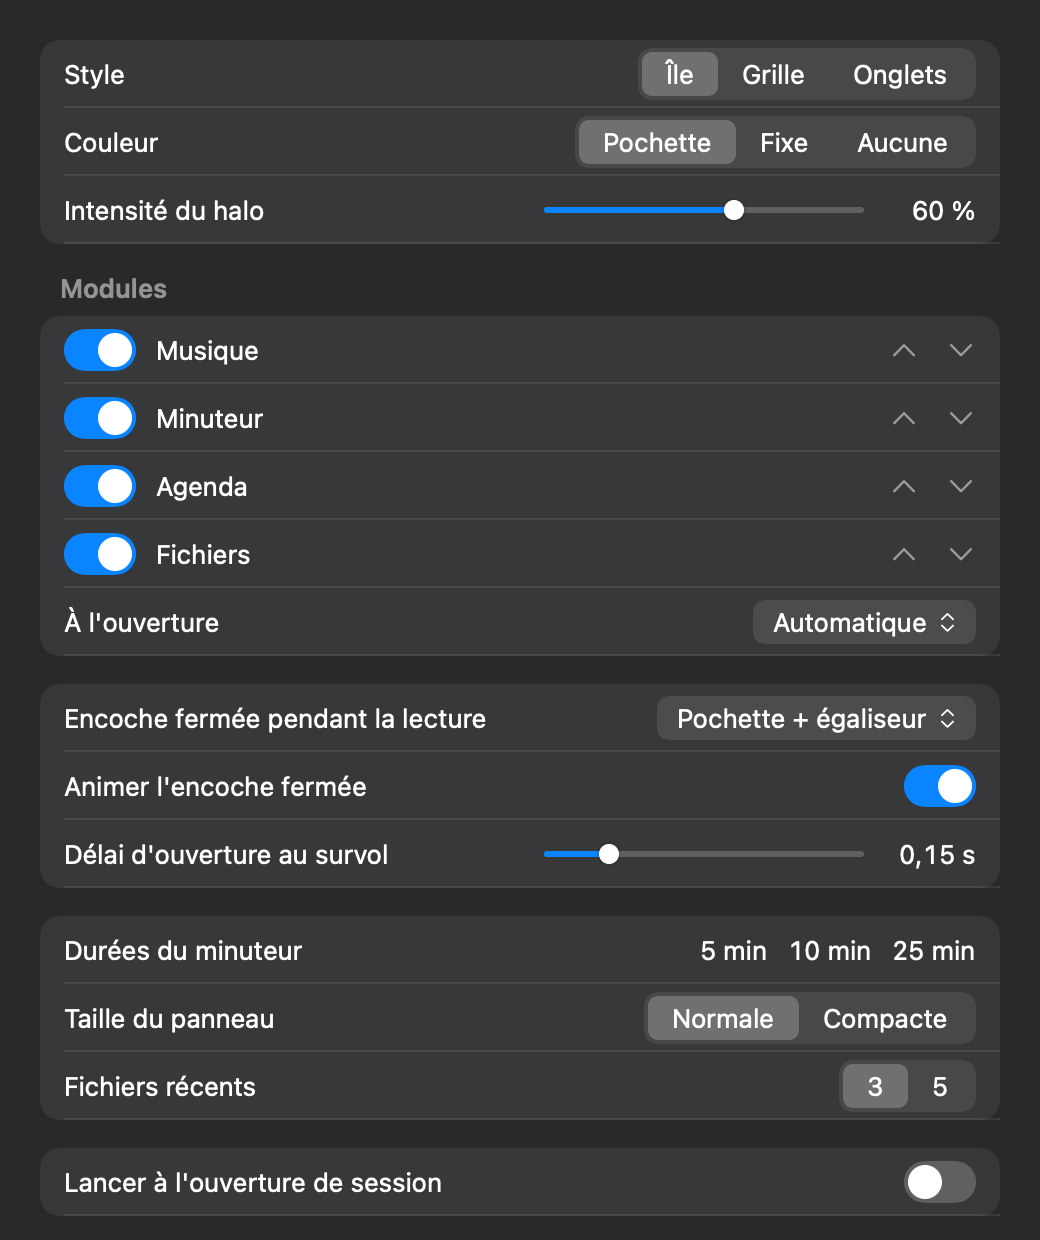
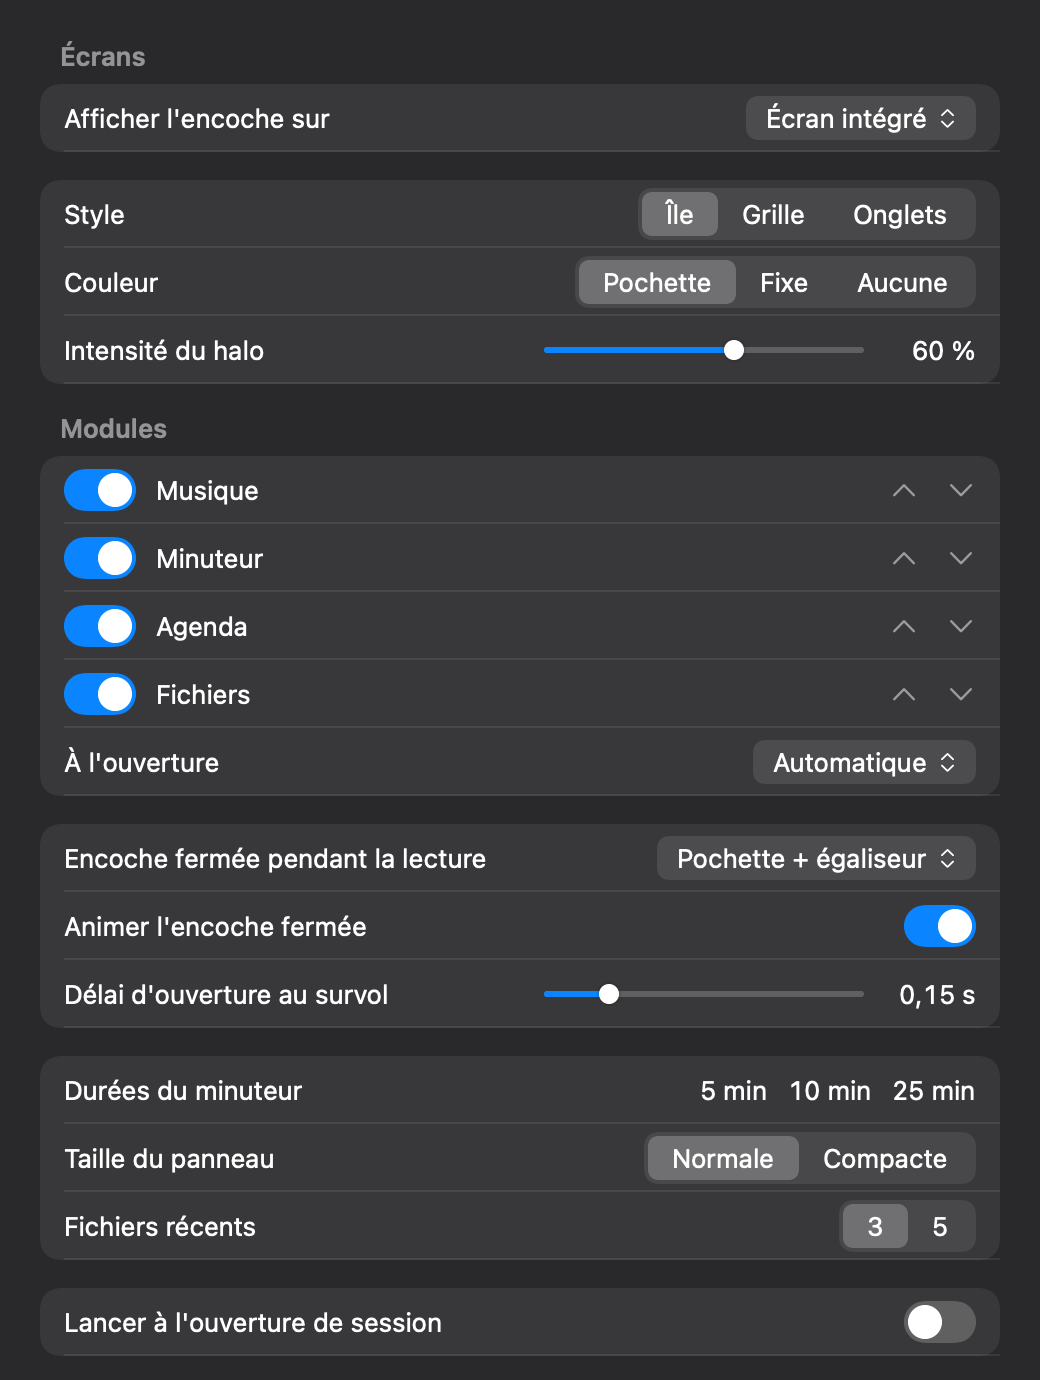
docs: 0.4.0 external screens, changelog, version bump

diff --git a/Sources/IleDelbe/App/ReadmeAssets.swift b/Sources/IleDelbe/App/ReadmeAssets.swift
@@ -40,6 +40,9 @@ enum ReadmeAssets {
                 try write(Scene(mode: mode, canvas: size, sample: s), size: size, to: url)
                 print("wrote \(url.path)")
             }
+            let external = directory.appendingPathComponent("external-screen.png")
+            try write(ExternalScreenScene(sample: s), size: ExternalScreenScene.size, to: external)
+            print("wrote \(external.path)")
             let settings = directory.appendingPathComponent("settings.png")
             try write(SettingsSnapshot(), size: SettingsSnapshot.size, to: settings)
             print("wrote \(settings.path)")
@@ -354,6 +357,62 @@ private struct Scene: View {
     }
 }
 
+// MARK: - External screen
+
+/// Wide external-screen menu bar with the virtual notch, in two stacked states: the thin idle bar,
+/// then the media pill. Shapes come from `ClosedDrawing` on a `NotchGeometry.virtual`, like the app.
+@MainActor
+private struct ExternalScreenScene: View {
+    static let size = CGSize(width: 900, height: 120)
+    static let menuBarHeight: CGFloat = 24
+    let sample: Sample
+
+    var body: some View {
+        VStack(spacing: 0) {
+            strip(wings: .none, layout: .plain)
+            strip(wings: PanelRules.closedWings(.media, closedStyle: .artworkEqualizer), layout: .media)
+        }
+        .frame(width: Self.size.width, height: Self.size.height)
+        .background(LinearGradient(colors: [Color(red: 0.07, green: 0.08, blue: 0.2),
+                                            Color(red: 0.42, green: 0.2, blue: 0.32)],
+                                   startPoint: .top, endPoint: .bottom))
+    }
+
+    private func strip(wings: ClosedWings, layout: ClosedLayout) -> some View {
+        let frame = CGRect(x: 0, y: 0, width: Self.size.width, height: Self.size.height / 2)
+        let g = NotchGeometry.virtual(screenFrame: frame, menuBarHeight: Self.menuBarHeight)
+        let d = ClosedDrawing(geometry: g, wings: wings)
+        let shape = NotchShape(bottomRadius: d.radius)
+        return ZStack(alignment: .top) {
+            HStack(spacing: 16) {
+                Text("Éditeur").fontWeight(.bold)
+                Text("Fichier")
+                Spacer()
+                Image(systemName: "wifi")
+                Text("lun. 09:48")
+            }
+            .font(.system(size: 12))
+            .foregroundStyle(.white.opacity(0.92))
+            .padding(.horizontal, 16)
+            .frame(height: Self.menuBarHeight)
+            .frame(maxWidth: .infinity)
+            .background(Color.black.opacity(0.28))
+            shape.fill(Color.black)
+                .overlay(alignment: .top) {
+                    if layout != .plain {
+                        ClosedActivityView(layout: layout, wings: wings, artworkData: sample.info.artworkData,
+                                           isPlaying: true, timer: sample.timer, now: sample.now, glow: sample.glow)
+                            .frame(height: g.notch.height)
+                    }
+                }
+                .frame(width: d.size.width, height: d.size.height)
+                .clipShape(shape)
+                .offset(x: d.offsetX)
+        }
+        .frame(width: Self.size.width, height: Self.size.height / 2, alignment: .top)
+    }
+}
+
 // MARK: - Settings window
 
 /// Static look-alike of `SettingsView` with the default settings. `ImageRenderer` cannot draw the
@@ -361,12 +420,16 @@ private struct Scene: View {
 /// the same rows with the same French labels, in the dark grouped style.
 @MainActor
 private struct SettingsSnapshot: View {
-    static let size = CGSize(width: 520, height: 620)
+    static let size = CGSize(width: 520, height: 690)
     private let s = AppSettings.default
     private let blue = Color(red: 0.04, green: 0.52, blue: 1)
 
     var body: some View {
         VStack(spacing: 14) {
+            header("Écrans")
+            group {
+                row("Afficher l'encoche sur") { menu("Écran intégré") }
+            }
             group {
                 segmented("Style", ["Île", "Grille", "Onglets"], selected: s.style == .island ? 0 : 1)
                 segmented("Couleur", ["Pochette", "Fixe", "Aucune"], selected: 0)

diff --git a/Tests/IleDelbeCoreTests/SmokeTests.swift b/Tests/IleDelbeCoreTests/SmokeTests.swift
@@ -1,4 +1,4 @@
 import Testing
 @testable import IleDelbeCore
 
-@Test func coreLinks() { #expect(IleDelbeCore.version == "0.3.0") }
+@Test func coreLinks() { #expect(IleDelbeCore.version == "0.4.0") }

diff --git a/Sources/IleDelbeCore/IleDelbeCore.swift b/Sources/IleDelbeCore/IleDelbeCore.swift
@@ -1,1 +1,1 @@
-public enum IleDelbeCore { public static let version = "0.3.0" }
+public enum IleDelbeCore { public static let version = "0.4.0" }

diff --git a/packaging/homebrew/iledelbe.rb b/packaging/homebrew/iledelbe.rb
@@ -1,5 +1,5 @@
 cask "iledelbe" do
-  version "0.3.0"
+  version "0.4.0"
   sha256 "REPLACE_WITH_SHA256_FROM_RELEASE_SH"
 
   url "https://github.com/jean-baptisteAZAN/ileDelbe/releases/download/v#{version}/ileDelbe-#{version}.zip"

diff --git a/Readme.md b/Readme.md
@@ -74,8 +74,7 @@ Update with `brew upgrade --cask iledelbe`. Uninstall with `brew uninstall --cas
 
 ### Requirements
 
-- A MacBook with a notch (Apple silicon), running **macOS 15.4 or later**.
-- External screens and Macs without a notch are not supported.
+- A Mac (Apple silicon) running **macOS 15.4 or later**. A notched MacBook gets the real notch; any other screen gets a virtual one (see [External screens](#external-screens)).
 
 ## First launch and permissions
 
@@ -106,8 +105,22 @@ Open **Réglages ileDelbe** with the gear in the open panel, or right-click insi
 - **Modules.** Show or hide *Musique*, *Minuteur*, *Agenda* and *Fichiers*, reorder them, and choose which one opens first (**À l'ouverture**, *Automatique* by default).
 - **Encoche fermée.** What the notch shows while music plays: *Pochette + égaliseur*, *Titre* or *Rien*. **Animer l'encoche fermée** turns the equalizer and the scrolling title on or off; with **Reduce Motion** enabled in System Settings > Accessibility > Display, they stay still whatever this option says. **Délai d'ouverture au survol** sets how long you hover before the panel opens.
 - **Minuteur.** The three preset durations (1 to 180 min).
+- **Écrans.** Where the notch appears: *Écran intégré*, *Écran principal*, *Un écran au choix* or *Tous les écrans*.
 - **Panneau.** *Normale* or *Compacte* size, and 3 or 5 recent files.
 - **Lancer à l'ouverture de session.** Starts ileDelbe at login.
+
+## External screens
+
+ileDelbe also works on external screens and on Macs without a notch. There, it draws a virtual notch at the top center of the menu bar, using the menu bar height of that screen. Pick where it appears in the **Écrans** section of the settings, with **Afficher l'encoche sur**:
+
+- **Écran intégré** (default). The built-in screen only. With the lid closed, or no built-in screen, the notch moves to the main screen.
+- **Écran principal**. The screen that has the menu bar.
+- **Un écran au choix**. A screen you pick from the list. While it is unplugged, the notch falls back to another screen.
+- **Tous les écrans**. A notch on every screen. Alerts (timer end, meeting) show on all of them; only one panel is open at a time.
+
+<img src="docs/assets/external-screen.png" alt="Virtual notch on an external screen: a thin idle bar, then the media pill with artwork and equalizer" width="100%">
+
+At rest, a virtual notch is only a thin bar, so it stays out of the way. It grows into a pill when something happens (music, timer, alert), and opens into the panel when you hover it. Only the drawn shape reacts to the pointer, and ileDelbe never takes focus.
 
 ## Build from source
 
@@ -155,7 +168,7 @@ log stream --predicate 'subsystem == "io.github.ileDelbe"'
 macOS ties permissions to the app's signature. After an update, or after each `make app` for a local build, the old grant can go stale. Open System Settings > Privacy & Security > Calendars, remove ileDelbe, then open the Agenda tab again to get a new prompt.
 
 **Nothing happens on my Mac.**
-ileDelbe needs a built-in screen with a notch. Macs without a notch and external screens are not supported.
+By default ileDelbe shows its notch on the built-in screen. If you only use an external screen, or the lid is closed, it uses the main screen instead. Check **Écrans** in the settings (see [External screens](#external-screens)).
 
 **Music controls show "Rien en lecture" while something plays.**
 See [Known risk](#known-risk-mediaremote) and check the logs. Please open an issue with your macOS version.

diff --git a/CHANGELOG.md b/CHANGELOG.md
@@ -7,6 +7,24 @@ and this project adheres to [Semantic Versioning](https://semver.org/spec/v2.0.0
 
 ## [Unreleased]
 
+## [0.4.0] - 2026-11-10
+
+External screens.
+
+### Added
+
+- **Écrans** section in the settings: show the notch on **Écran intégré** (default), **Écran principal**, **Un écran au choix** or **Tous les écrans**.
+- Virtual notch on screens without a notch (external displays, Macs without a notch): a thin idle bar that grows into a pill during activity, sized to the menu bar of that screen.
+- With **Tous les écrans**, alerts show on every notch; only one panel is open at a time.
+- Screens are identified by their display UUID, so the choice survives replugging. Screen changes are handled without polling.
+- README section and image for external screens.
+
+### Changed
+
+- The built-in screen is detected with `CGDisplayIsBuiltin` instead of its name.
+- With the lid closed or no built-in screen, the notch falls back to the main screen.
+- The **Rail** style, planned for this version, moves to a later version.
+
 ## [0.3.0] - 2026-11-10
 
 Styles and a settings window.
@@ -53,7 +71,8 @@ First version: a Now Playing media panel in the notch.
 - Now Playing for any source macOS reports (Spotify, Music, browsers), through the vendored mediaremote-adapter.
 - Non-activating panel that never takes focus and passes clicks outside its shape to the menu bar.
 
-[Unreleased]: https://github.com/jean-baptisteAZAN/ileDelbe/compare/v0.3.0...HEAD
+[Unreleased]: https://github.com/jean-baptisteAZAN/ileDelbe/compare/v0.4.0...HEAD
+[0.4.0]: https://github.com/jean-baptisteAZAN/ileDelbe/compare/v0.3.0...v0.4.0
 [0.3.0]: https://github.com/jean-baptisteAZAN/ileDelbe/compare/v0.2.0...v0.3.0
 [0.2.0]: https://github.com/jean-baptisteAZAN/ileDelbe/compare/v0.1.0...v0.2.0
 [0.1.0]: https://github.com/jean-baptisteAZAN/ileDelbe/releases/tag/v0.1.0

diff --git a/packaging/homebrew/README.md b/packaging/homebrew/README.md
@@ -10,7 +10,7 @@ brew trust jean-baptisteAZAN/tap   # recent Homebrew asks you to trust third-par
 brew install --cask iledelbe
 ```
 
-Requirements: a MacBook with a notch (Apple silicon), macOS 15.4 or later.
+Requirements: a Mac with Apple silicon, macOS 15.4 or later (a notch is optional: other screens get a virtual one).
 
 ## Update
 
